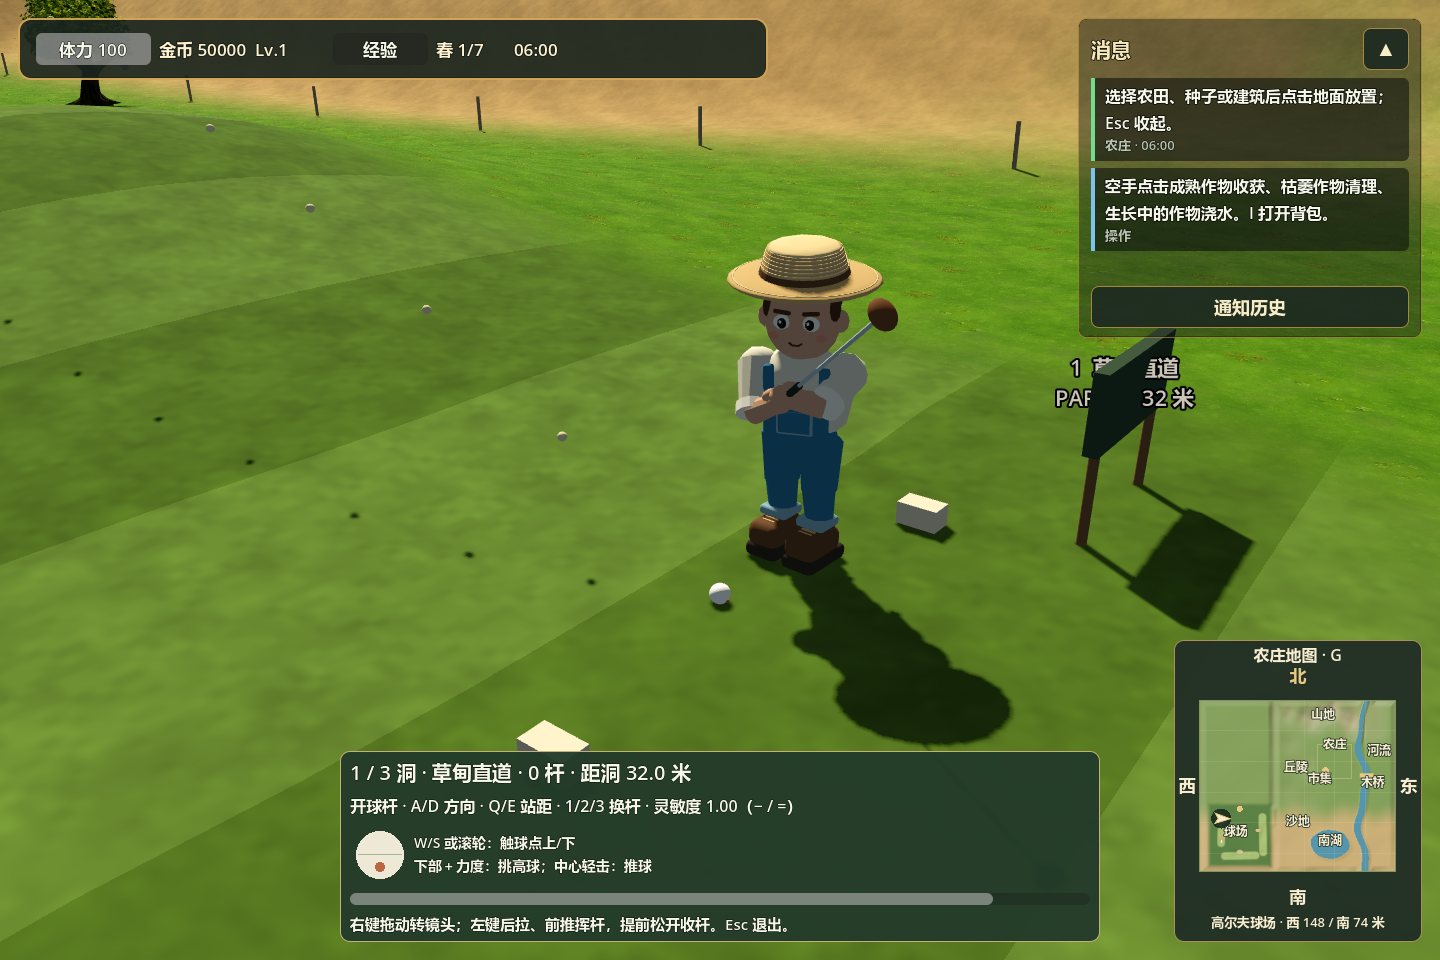
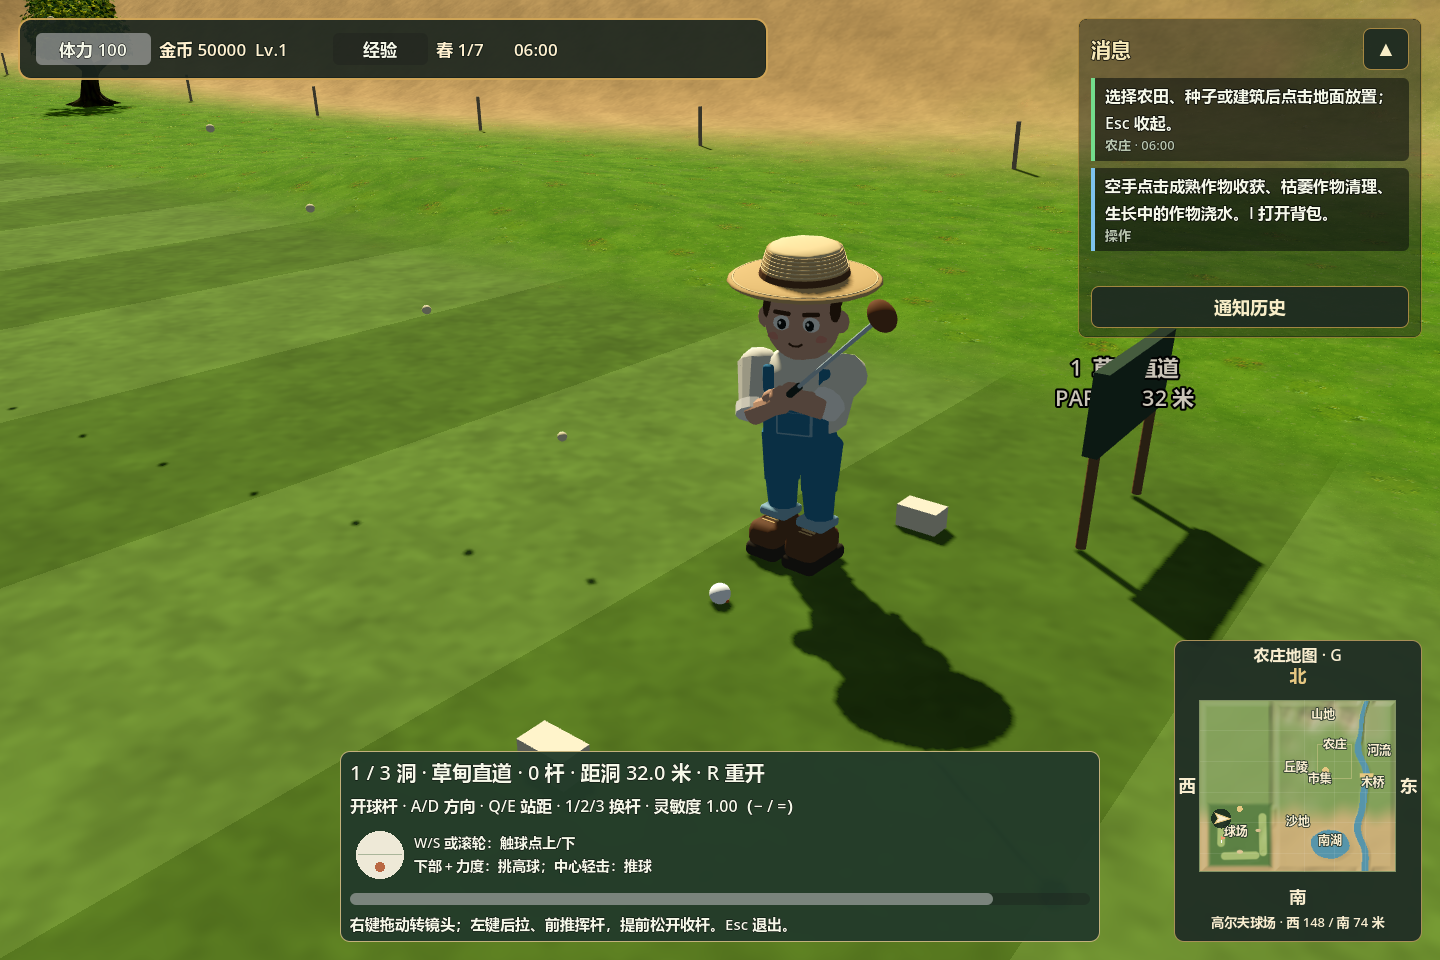
feat(golf): implement round restart functionality and enhance cup drop visuals

diff --git a/docs/validation/golf-3d.md b/docs/validation/golf-3d.md
@@ -15,6 +15,8 @@
 
 提前松开左键会收杆，不计杆数。**Esc** 退出站位或跟球；已经击出的球继续运动。**− / =** 调整本次游戏的挥杆灵敏度，范围 0.4–2.0。**G** 继续控制小地图显隐。打开背包等面板会释放击球控制，不会卡住人物或鼠标。
 
+开始过高尔夫后，在球场内按 **R** 可重开本轮：人物和球回到第 1 洞并进入准备击球状态，本轮杆数清零，个人最佳保留。挥杆、飞行、落杯中及三洞完成后均可重开；离开球场后 R 仍使用原来的角色复位功能，打开面板时不会触发高尔夫重开。
+
 准备、挥杆与跟球时均可**按住右键拖动**转镜头，松开后保留视角。转镜头不改变瞄准；准备阶段右键会取消尚未击出的鼠标蓄势，重新按左键即可挥杆。蓄势时固定方向、站距和触球点，换杆可以取消蓄势。推杆和中心触球使用较短的摆杆动作，下部触球可使用完整挥杆动作。
 
 ![鼠标后拉蓄势](images/golf_3d_backswing.png)
@@ -25,17 +27,19 @@
 
 | 球洞 | 距离 | 特征 |
 | --- | --- | --- |
-| 草甸直道 | 32 米 | 缓丘接浅谷，越过丘顶后下坡攻果岭 |
-| 沙丘弯道 | 40 米 | 沙坑旁隆起与侧肩，需控制落点和落地后的偏转 |
+| 草甸直道 | 32 米 | 平缓入门球道，只有轻微起伏，可沿地面攻果岭 |
+| 沙丘弯道 | 40 米 | 连续侧坡与沙地，需要补偿球向低处的偏转 |
 | 湖风长道 | 46 米 | 较高的长丘与侧坡，低处球路和越丘击球各有难度 |
 
-三条球道均有超过 1.5 米的高差，丘体采用宽缓过渡；发球台和洞口附近保持平整，外围果岭保留轻微倾斜。沙坑下凹并带有平滑坡沿。
+第 1、2 洞取消独立抬高的果岭平台，球道直接过渡到果岭。第 1 洞沿球道的高差低于 0.4 米；第 2 洞用约 5% 的连续侧坡增加难度。洞口周围仅做很小范围的平整过渡。第 3 洞保留原来的长丘、侧坡、沙坑和果岭起伏。
 
-[草甸缓丘](images/golf_3d_meadow_hills.png) · [沙丘球道](images/golf_3d_dune_hills.png) · [长丘与侧坡](images/golf_3d_side_slope.png)
+[平缓草甸](images/golf_3d_meadow_hills.png) · [侧坡球道](images/golf_3d_dune_hills.png) · [长丘与侧坡](images/golf_3d_side_slope.png)
 
-每洞标准杆 3，共 9 杆；每洞上限 12 杆。草地、果岭和沙坑使用与球物理一致的区域定义。球按重力飞行、落地反弹；滚动时根据实际地形三角面的坡度计算重力分量，上坡减速，下坡加速，横坡会向低处偏转。球在陡坡上减速到转折点后可以回滚。滚动阻力依次为果岭、球道、长草、沙坑递增，坡度和材质共同影响停止距离。
+每洞标准杆 3，共 9 杆；没有强制结束本洞的杆数上限，只有实际进洞才完成本洞。草地、果岭和沙坑使用与球物理一致的区域定义。球按重力飞行、落地反弹；滚动时根据实际地形三角面的坡度计算重力分量，上坡减速，下坡加速，横坡会向低处偏转。球在陡坡上减速到转折点后可以回滚。滚动阻力依次为果岭、球道、长草、沙坑递增，坡度和材质共同影响停止距离。
 
 贴地球经过可见洞口、速度不超过 4.5 米／秒时即可落洞。判定检查整个移动线段，覆盖洞口中心和内沿，避免一帧跨过洞口却漏判。飞快滚过、空中越洞或从洞口外侧擦过均不会被吸入。洞口同时切开地形网格与碰撞，杯壁和杯底采用立体几何。
+
+球进入洞口后，先显示 0.4 秒的落杯过程，再结算并显示“进洞”。落杯期间不提前完成本洞，同一杆只结算一次。完成后仍需走到下一发球台按 E。[落洞实景](images/golf_3d_cup_drop.png)
 
 越过场地外侧缓冲边界或进入水面，按本场规则额外罚 1 杆，将球放回本杆起点。当前球道均位于干燥陆地。参考轨迹帮助估计方向和距离，实际球速与落点仍由挥杆和地形决定。
 
@@ -49,15 +53,16 @@
 
 ## 验证
 
-- 地形与球物理：180 项检查，覆盖三洞高差、平整发球台与洞口、多方向／速度／帧率进洞、内沿进洞、高速／空中越洞、擦洞、连续路径判定、上坡回滚、下坡加速、横坡偏转和四种材质阻力。
-- 高尔夫集成：104 项检查，包含真实地形碰撞下的进洞，以及山丘网格高度、法线与球物理一致性；保留鼠标操作、镜头、计分、存档和界面中断检查。
-- 相关回归：地形 64 项、南湖 52 项、正式场景 52 项。共 452 项；高尔夫在实际 OpenGL 窗口复跑不重复计数。12 张截图来自正式场景。
+- 地形与球物理：195 项检查，包含前两洞平缓进攻路线、连续侧坡、第 3 洞高度不变，以及原有进洞、重力、摩擦和落杯检查。
+- 高尔夫集成：123 项检查，新增 R 在挥杆、飞行、落杯和读档后重开；验证清空本轮、保留最佳、取消旧球结算、恢复存档，以及球场外与面板内不误触。保留超过 12 杆继续本洞、进洞结算、鼠标和镜头检查。
+- 本次地形回归 64 项，共 382 项检查通过，高尔夫在实际 OpenGL 窗口复跑不重复计数。实景截图已更新。
 
 ```powershell
 godot_console.exe --headless --path . --script tests/run_3d_golf_terrain_tests.gd -- --farm-test
 godot_console.exe --headless --path . --script tests/run_3d_golf_tests.gd -- --farm-test
 godot_console.exe --path . --script tests/run_3d_golf_tests.gd -- --farm-test
 godot_console.exe --path . --script tests/capture_3d_golf.gd -- --farm-test
+godot_console.exe --path . --script tests/capture_3d_golf.gd -- --farm-test --cup-drop-only
 ```
 
 测试均使用独立临时存档并在结束后清理，不读取或覆盖玩家正式存档。

diff --git a/README.md b/README.md
@@ -105,7 +105,7 @@ docs/validation/              操作说明、验证结果和截图
 
 地图已扩展至 **256 × 224 米**，中央为原农庄平原，西侧为丘陵及新增湖西球场，北侧为山地，东侧河流穿过峡谷。南面从草地逐渐过渡到沙地，南湖有三处保留岸边钓位，河流和湖泊的其他合适岸边也能钓鱼。按 **Tab** 查看全景，按 **R** 返回农庄。原地形布局见[扩展地图说明](docs/validation/landscape-3d.md)，新增球场见下文。
 
-**高尔夫（C：鼠标挥杆）**：从市集旁“湖西高尔夫”路牌沿小路到球杆架（西 124 / 南 62 米），点击或按 **E** 免费开始。走到球旁按 **E** 站位，角色右手主握杆、向左挥击。**A/D** 瞄准，**Q/E** 调整站距，**W/S 或滚轮** 上下调整触球点；球下部配合大力度可以挑高，中心轻击可以推球。**按住左键向后拉鼠标，再向前推过击球点**；后拉幅度与前推速度影响力度，横向偏移影响出球方向。**右键拖动** 可在准备、挥杆和跟球时转动镜头。**1/2/3** 选择开球杆、挖起杆、推杆，**− / =** 调整本次游戏的挥杆灵敏度。球停后走过去继续，进洞后前往下一发球台按 E。三洞计分并保存个人最佳，Esc 退出站位／跟球。实景与验证见[高尔夫说明](docs/validation/golf-3d.md)。
+**高尔夫（C：鼠标挥杆）**：从市集旁“湖西高尔夫”路牌沿小路到球杆架（西 124 / 南 62 米），点击或按 **E** 免费开始。走到球旁按 **E** 站位，角色右手主握杆、向左挥击。**A/D** 瞄准，**Q/E** 调整站距，**W/S 或滚轮** 上下调整触球点；球下部配合大力度可以挑高，中心轻击可以推球。**按住左键向后拉鼠标，再向前推过击球点**；后拉幅度与前推速度影响力度，横向偏移影响出球方向。**右键拖动** 可在准备、挥杆和跟球时转动镜头。**1/2/3** 选择开球杆、挖起杆、推杆，**− / =** 调整本次游戏的挥杆灵敏度。球停后走过去继续，进洞后前往下一发球台按 E。**球场内按 R 重开本轮**，人物和球回到第 1 洞，本轮清零、个人最佳保留。三洞计分并保存个人最佳，Esc 退出站位／跟球。实景与验证见[高尔夫说明](docs/validation/golf-3d.md)。
 
 右下角小地图默认显示，按 **G** 关闭／打开，固定上北、下南、左西、右东；浅色箭头显示人物位置和朝向，标出农庄、山地、丘陵、河流、木桥、沙地及南湖。底部显示所在区域与相对原农庄中心（世界原点）的东西／南北距离（米），旋转相机不会改变地图方向。
 
